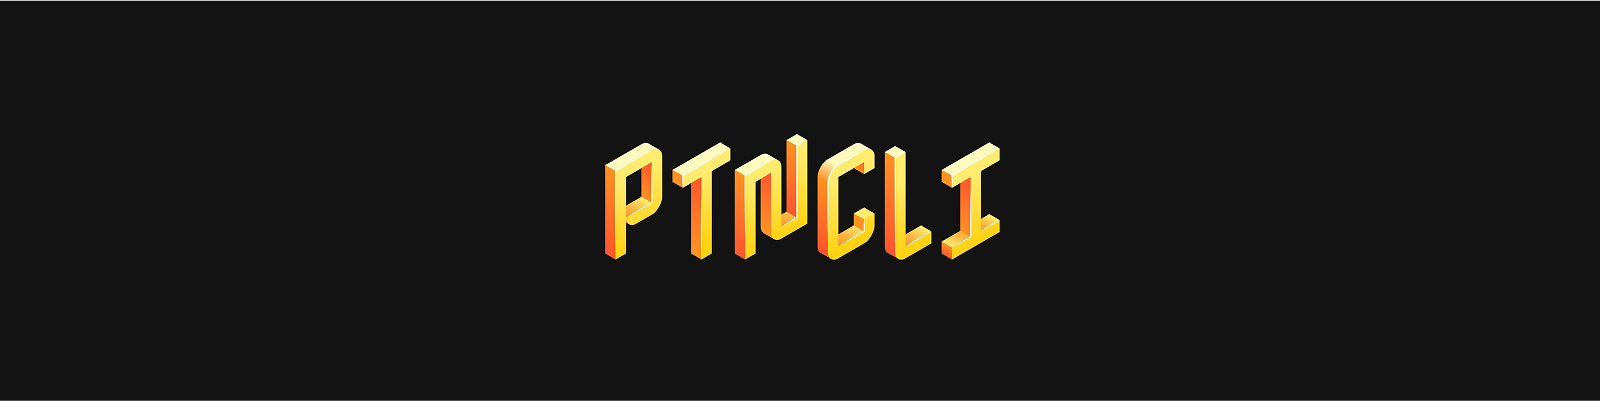
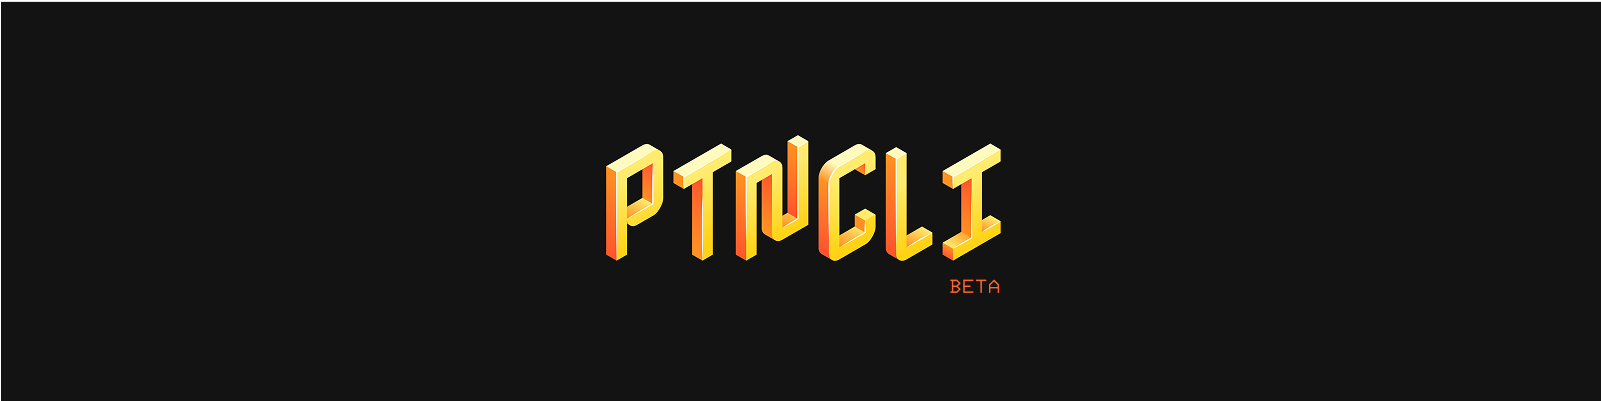
add beta

diff --git a/README.md b/README.md
@@ -8,6 +8,10 @@
 
 **PTNCLI** is a command-line tool that extends the bittensor-cli tool for Proprietary Trading Network (PTN) operations. It provides enhanced registration functionality with collateral management and extends standard Bittensor wallet, subnet, and stake operations.
 
+## Note
+
+PTNCLI is in beta and is still under active development. Please report any issues or feedback on the [PTNCLI GitHub repository](https://github.com/proprietary-trading-network/ptncli).
+
 ## Description
 
 PTNCLI sits on top of the bittensor-cli tool and extends it by customizing and hooking into commands. As a subnet on the Bittensor network, PTN operates on **subnet 8 (netuid: 8)** on the mainnet/finney network and **subnet 116 (netuid: 116)** on the testnet. PTN requires additional collateral setup during registration, which this tool automates alongside the standard subnet registration process.
